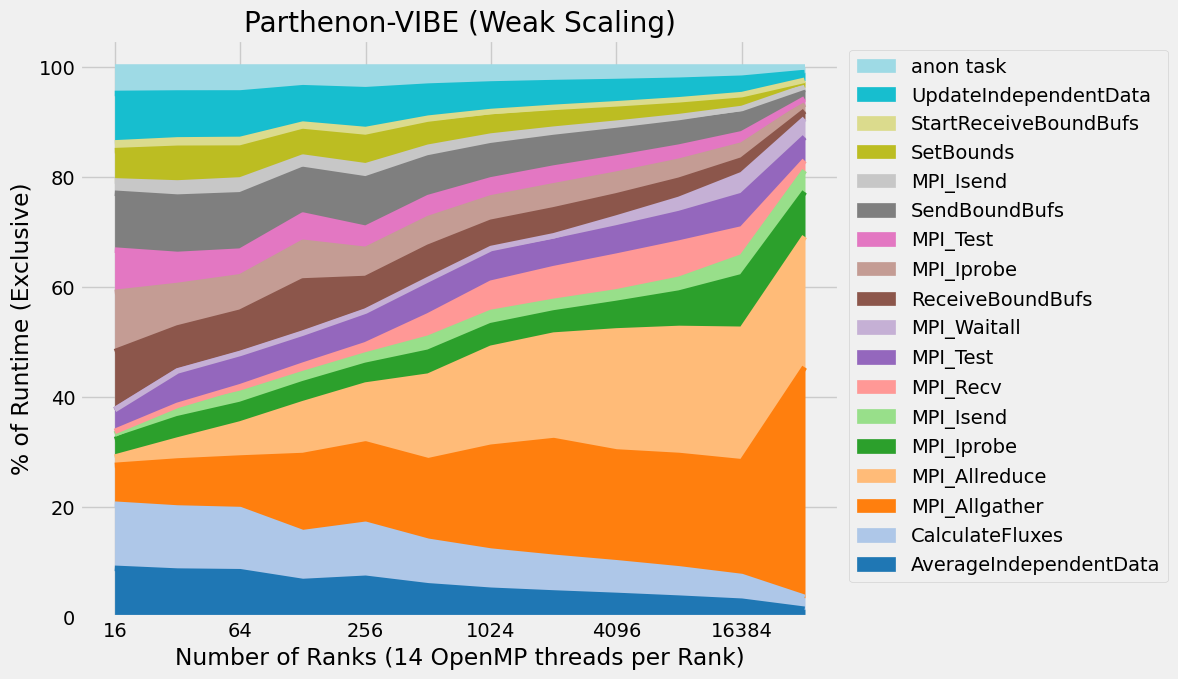
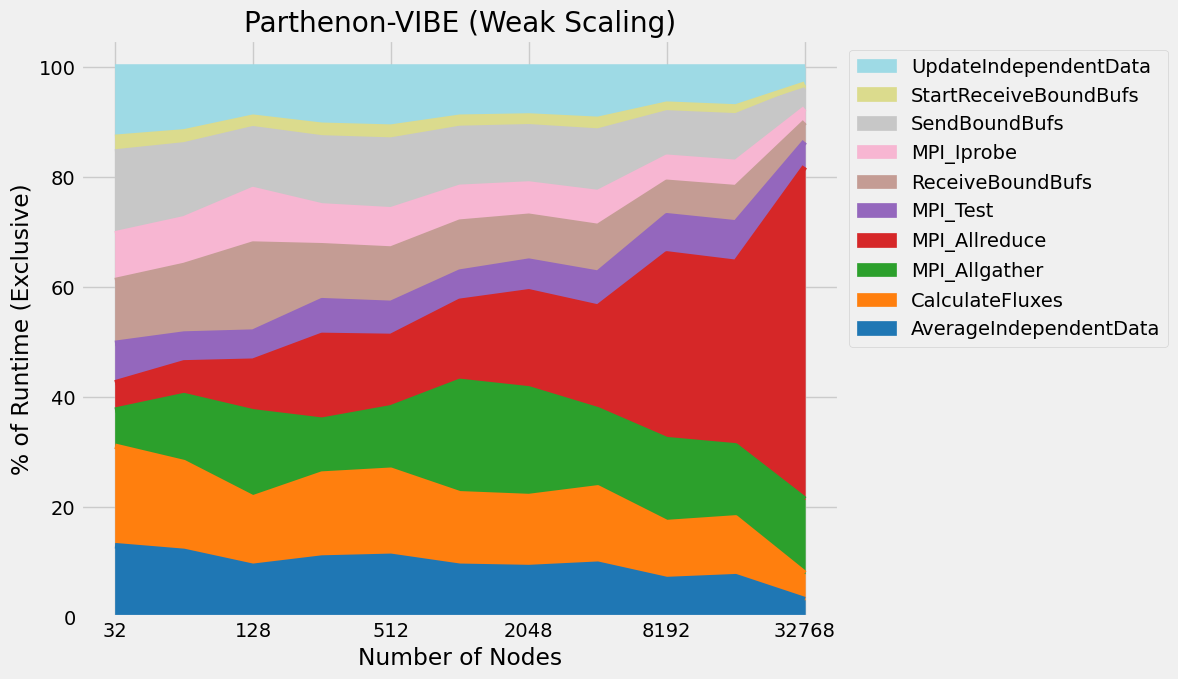
Add new caliper plots from parthenon-vibe crossroads numbers in august. Add caliper plotting scripts to utils.

diff --git a/utils/read_lanl_vibe.py b/utils/read_lanl_vibe.py
@@ -1,0 +1,189 @@
+#!/usr/bin/env python3
+
+## TAKES ONE ARGUMENT: PATH TO DIR WITH CALIPER FILES RELATIVE OR ABSOLUTE
+# WILL CREATE A DIRECTORY ADJACENT TO ARGUMENT DIR WITH THE NAME OF THAT DIR + _plots 
+## REQUIRES THICKET:
+# pip install llnl-thicket
+# IF THEY'RE IN A NON_STANDARD PLACE, MAKE SURE TO ADD THEM TO PYTHONPATH ON CL.
+# IF RUNNING IN IPYTHON, JUPYTER, ETC, import sys AND APPEND THEIR LOC TO sys.path BEFORE LAUNCHING.
+
+
+import sys
+import os
+import os.path as op
+from glob import glob
+# from matplotlib.style import context
+import matplotlib.pyplot as plt
+import thicket as th
+
+# from cycler import cycler
+ 
+# default_cycler = (cycler(color=['r', 'g', 'b', 'y']) *
+#                   cycler(linestyle=['-', '--', ':', '-.']))
+
+# sys.path.append("/usr/gapps/spot/dev/hatchet-venv/x86_64/lib/python3.9/site-packages/")
+# sys.path.append("/usr/gapps/spot/dev/hatchet/x86_64/")
+# sys.path.append("/usr/gapps/spot/dev/thicket-playground-dev/")
+
+### CONFIG
+plotx=12
+ploty=7
+cat_to_plot=10 #Number of categories to plot.
+
+### FILTER DF
+def filter_df(df, category, ncat=10, criteria=None):
+    dfclean    = df.reset_index('profile', drop=True).T
+    totalmeans = dfclean.loc[(slice(None), category),:].mean().sort_values(ascending=False)
+    
+    # If given a criteria (a minimum value cutoff), use that instead
+    if criteria:
+        mean_filt = list(totalmeans[totalmeans > criteria].index)
+    else:
+        mean_filt = list(totalmeans.head(ncat).index)
+
+    cols = list(dfclean.columns)
+    for code_section in cols:
+        if code_section not in mean_filt:
+            dfclean.drop(code_section, axis=1, inplace=True)
+    
+    return dfclean
+
+def get_cali_files(rawpath):
+    cali_path = op.realpath(rawpath)
+    califiles = glob(cali_path + "/*.cali")
+
+    if not califiles:
+        print(f"\nERROR:\n    Path {cali_path} has no caliper files.\n")
+        sys.exit(1)
+
+    cali_name = op.basename(cali_path)
+    cali_dirname = op.dirname(cali_path)
+    return cali_name, cali_dirname, califiles
+    
+
+if __name__ == "__main__":
+
+    # %%
+    if len(sys.argv) < 2:
+        error="\nERROR:\n  TAKES ONE ARGUMENT: PATH TO DIR WITH CALIPER FILES RELATIVE OR ABSOLUTE\n"
+        error+="  WILL CREATE A DIRECTORY ADJACENT TO ARGUMENT DIR WITH THE NAME OF THAT DIR + _plots\n"
+        print(error)
+        sys.exit(1)
+    
+    cali_name, cali_dirname, cali_files = get_cali_files(sys.argv[1])
+
+    plt_outdir = op.join(cali_dirname, cali_name+"_plots")
+    os.makedirs(plt_outdir, exist_ok=True)
+
+    tk = th.Thicket.from_caliperreader(cali_files)
+
+    # %%
+    #problem_sizes = list(sorted(tk.metadata["Problem"].unique()))
+    ranks = list(sorted(tk.metadata["mpi.world.size"].unique()))
+
+    gb = tk.groupby("mpi.world.size")
+    thickets = list(gb.values())
+    ranks = list(gb.keys())
+    problem_sizes = [0]
+    ctk = th.Thicket.concat_thickets(
+        thickets=thickets,
+        headers=ranks,
+        axis="columns"
+    )
+    rank_str=[str(r) for r in ranks]
+    # print(ranks)
+
+    df_filtered = filter_df(ctk.dataframe, 'Avg time/rank', cat_to_plot)
+
+    # %%
+    for r in ranks:
+        df_filtered.loc[(r, "perc"),:] = (df_filtered.loc[(r, "Avg time/rank (exc)"),:] / df_filtered.loc[(r, "Avg time/rank (exc)"),:].sum()) * 100
+
+    '''
+    PLOT PCT
+    '''
+    fig_path = op.join(plt_outdir, "parthenon-pct.png")
+    plt.style.use('fivethirtyeight')
+    ax = df_filtered.loc[[(r, "perc") for r in ranks],:].reset_index(1, drop=True).plot(
+        kind="area",
+        title=f"Parthenon-VIBE (Weak Scaling)",
+        xlabel="Number of Nodes",
+        ylabel="% of Runtime (Exclusive)",
+        figsize=(10,5), 
+        colormap="tab20"
+    )
+    # Custom legend
+    handles, labels = ax.get_legend_handles_labels()
+    legend = ax.legend(handles[::-1], labels[::-1], bbox_to_anchor=(1, 1))#, title='Line', loc='upper left')
+    #print (ctk.dataframe[(slice(None), 1), ("name", "")].tolist())
+    labels = df_filtered.loc[("name", "")].tolist()
+
+    labels.reverse()
+    print(labels)
+    for i, label in enumerate(legend.get_texts()):
+        label.set_text(labels[i])
+
+    f=ax.get_figure()
+    f.set_size_inches(plotx,ploty)
+    plt.tight_layout()
+    plt.savefig(fig_path, bbox_inches="tight")
+    #plt.show()
+
+    '''
+    PLOT TOTAL TIME LINES
+    '''
+    for p in problem_sizes:
+        fig_path = op.join(plt_outdir, f"parthenon-totaltime-line_{p}.png")
+        plt.style.use('fivethirtyeight')
+        ax = df_filtered.loc[[(r, "Avg time/rank (exc)") for r in ranks],:].reset_index(1, drop=True).plot(
+            kind="line",
+            title=f"Parthenon-VIBE (Weak Scaling)",
+            xlabel="Number of Nodes",
+            ylabel="Runtime (sec) (Exclusive)",
+            figsize=(10,5),
+            colormap="tab20"
+        )
+        # Custom legend
+        handles, labels = ax.get_legend_handles_labels()
+        legend = ax.legend(handles[::-1], labels[::-1], bbox_to_anchor=(1, 1))#, title='Line', loc='upper left')
+        labels = df_filtered.loc[("name", "")].tolist()
+        labels.reverse()
+        for i, label in enumerate(legend.get_texts()):
+            label.set_text(labels[i])
+        f=ax.get_figure()
+        f.set_size_inches(plotx,ploty)
+        plt.tight_layout()
+        plt.savefig(fig_path, bbox_inches="tight")
+        #plt.show()
+
+    '''
+    PLOT TOTAL TIME AREA
+    '''
+    for p in problem_sizes:
+        fig_path = op.join(plt_outdir, f"parthenon-totaltime-area_{p}.png")
+        plt.style.use('fivethirtyeight')
+        ax = df_filtered.loc[[(r, "Avg time/rank (exc)") for r in ranks],:].reset_index(1, drop=True).plot(
+            kind="area",
+            title=f"Parthenon-VIBE (Weak Scaling)",
+            xlabel="Number of Nodes",
+            ylabel="Runtime (sec) (Exclusive)",
+            figsize=(10,5),
+            colormap="tab20"
+        )
+        
+        # Custom legend
+        handles, labels = ax.get_legend_handles_labels()
+        legend = ax.legend(handles[::-1], labels[::-1], bbox_to_anchor=(1, 1))#, title='Line', loc='upper left')
+        labels = df_filtered.loc[("name", "")].tolist()
+        labels.reverse()
+        for i, label in enumerate(legend.get_texts()):
+            label.set_text(labels[i])
+
+        f=ax.get_figure()
+        f.set_size_inches(plotx,ploty)
+        plt.tight_layout()
+        plt.savefig(fig_path, bbox_inches="tight")
+
+    #ctk.dataframe.to_csv("out.csv", index=True)
+        #print (plt.style.available) 
+        #print(plt.colormaps)

diff --git a/utils/read_lanl_amg.py b/utils/read_lanl_amg.py
@@ -1,0 +1,107 @@
+# %%
+import sys
+from glob import glob
+
+import matplotlib.pyplot as plt
+from cycler import cycler
+
+default_cycler = (cycler(color=['r', 'g', 'b', 'y']) *
+                  cycler(linestyle=['-', '--', ':', '-.']))
+
+plt.rc('axes', prop_cycle=default_cycler)
+
+# sys.path.append("/usr/gapps/spot/dev/hatchet-venv/x86_64/lib/python3.9/site-packages/")
+# sys.path.append("/usr/gapps/spot/dev/hatchet/x86_64/")
+# sys.path.append("/usr/gapps/spot/dev/thicket-playground-dev/")
+
+import thicket as th
+
+# %%
+tk = th.Thicket.from_caliperreader(glob("AMG/*.cali"))
+
+# %%
+problem_sizes = list(sorted(tk.metadata["Problem"].unique()))
+ranks = list(sorted(tk.metadata["mpi.world.size"].unique()))
+
+gb = tk.groupby("mpi.world.size")
+thickets = list(gb.values())
+ctk = th.Thicket.concat_thickets(
+    thickets=thickets,
+    headers=list(gb.keys()),
+    axis="columns",
+    metadata_key="Problem",
+)
+
+# %%
+for p in problem_sizes:
+    for r in ranks:
+        ctk.dataframe.loc[(slice(None), p), (r, "perc")] = (ctk.dataframe.loc[(slice(None), p), (r, "Avg time/rank (exc)")] / ctk.dataframe.loc[(slice(None), p), (r, "Avg time/rank (exc)")].sum()) * 100
+
+# %%
+for p in problem_sizes:
+    ax = ctk.dataframe.loc[(slice(None), p), [(r, "perc") for r in ranks]].T.reset_index(1, drop=True).plot(
+        kind="area",
+        title=f"AMG2023 Problem {p} (Weak Scaling)",
+        xlabel="Number of MPI ranks",
+        ylabel="% of Runtime",
+        figsize=(10,5)
+    )
+    # Custom legend
+    handles, labels = ax.get_legend_handles_labels()
+    legend = ax.legend(handles[::-1], labels[::-1], bbox_to_anchor=(1, 1))#, title='Line', loc='upper left')
+    labels = ctk.dataframe.loc[(slice(None), 1), ("name", "")].tolist()
+    labels.reverse()
+    for i, label in enumerate(legend.get_texts()):
+        label.set_text(labels[i])
+    # Set custom x labels
+    xlabels = [item.get_text() for item in ax.get_xticklabels()]
+    ax.set_xticklabels([xlabels[0]] + ranks + [xlabels[-1]])
+    plt.savefig(f"prob{p}-pct.png", bbox_inches="tight")
+    #plt.show()
+
+# %%
+for p in problem_sizes:
+    ax = ctk.dataframe.loc[(slice(None), p), [(r, "Avg time/rank") for r in ranks]].T.reset_index(1, drop=True).plot(
+        kind="area",
+        title=f"AMG2023 Problem {p} (Weak Scaling)",
+        xlabel="Number of MPI ranks",
+        ylabel="Runtime (sec)",
+        figsize=(10,5)
+    )
+    ax.set_prop_cycle(default_cycler)
+    # Custom legend
+    handles, labels = ax.get_legend_handles_labels()
+    legend = ax.legend(handles[::-1], labels[::-1], bbox_to_anchor=(1, 1))#, title='Line', loc='upper left')
+    labels = ctk.dataframe.loc[(slice(None), 1), ("name", "")].tolist()
+    labels.reverse()
+    for i, label in enumerate(legend.get_texts()):
+        label.set_text(labels[i])
+    # Set custom x labels
+    xlabels = [item.get_text() for item in ax.get_xticklabels()]
+    ax.set_xticklabels([xlabels[0]] + ranks + [xlabels[-1]])
+    plt.savefig(f"prob{p}-totaltime.png", bbox_inches="tight")
+    #plt.show()
+
+# %%
+for p in problem_sizes:
+
+    ax = ctk.dataframe.loc[(slice(None), p), [(r, "Avg time/rank") for r in ranks]].T.reset_index(1, drop=True).plot(
+        kind="line",
+        title=f"AMG2023 Problem {p} (Weak Scaling)",
+        xlabel="Number of MPI ranks",
+        ylabel="Runtime (sec)",
+        figsize=(10,5)
+    )
+    # Custom legend
+    handles, labels = ax.get_legend_handles_labels()
+    legend = ax.legend(handles[::-1], labels[::-1], bbox_to_anchor=(1, 1))#, title='Line', loc='upper left')
+    labels = ctk.dataframe.loc[(slice(None), 1), ("name", "")].tolist()
+    labels.reverse()
+    for i, label in enumerate(legend.get_texts()):
+        label.set_text(labels[i])
+    # Set custom x labels
+    xlabels = [item.get_text() for item in ax.get_xticklabels()]
+    ax.set_xticklabels([xlabels[0]] + ranks + [xlabels[-1]])
+    ax.set_prop_cycle(default_cycler)
+    plt.savefig(f"prob{p}-time.png", bbox_inches="tight")
+    #plt.show()
